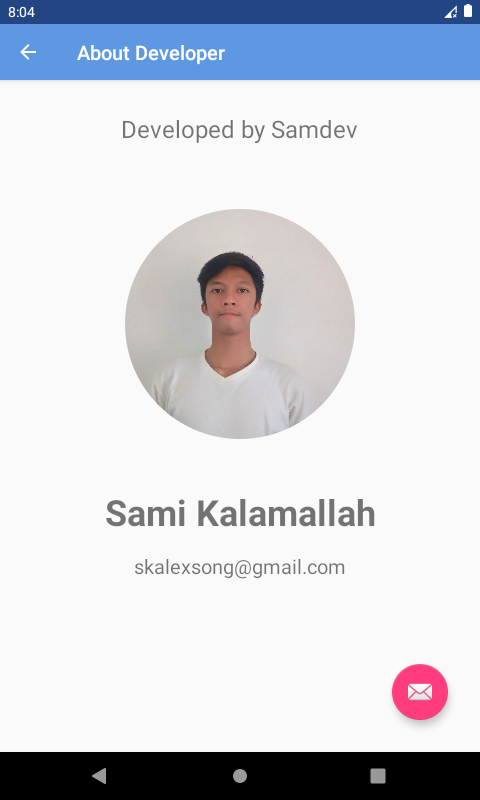
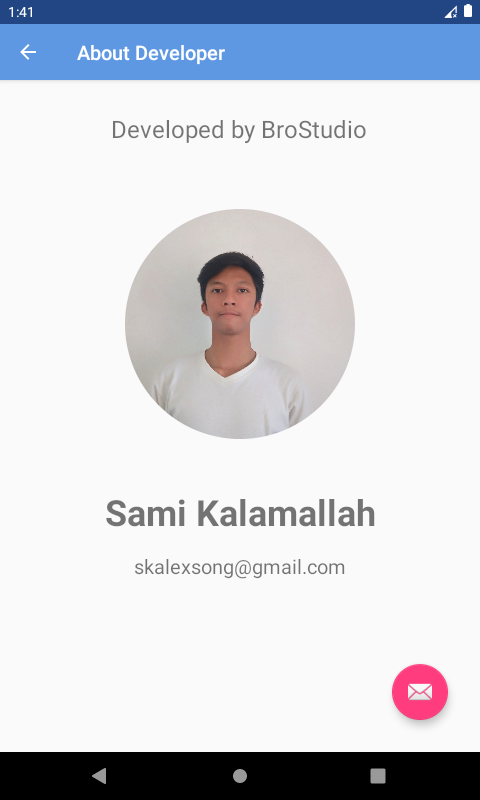
Update Screenshot and Reference

Changed region(s): [[0.2188, 0.125, 0.7812, 0.1875], [0.0, 0.0, 0.0938, 0.0312]]

diff --git a/README.md b/README.md
@@ -5,13 +5,14 @@ My first android app using JAVA on Android Studio
 Android application to show the vacation list on Cianjur city in West Java of Indonesia. This app keeps updating...
 
 # Screenshot
-![Screenshot01](screenshot/1.png?raw=true "Optional Title")
-![Screenshot01](screenshot/2.png?raw=true "Optional Title")
-![Screenshot01](screenshot/3.png?raw=true "Optional Title")
-![Screenshot01](screenshot/4.png?raw=true "Optional Title")
-![Screenshot01](screenshot/5.png?raw=true "Optional Title")
+![Screenshot01](screenshot/1.png?raw=true "SplashScreen")
+![Screenshot01](screenshot/2.png?raw=true "Main Activity")
+![Screenshot01](screenshot/3.png?raw=true "Content")
+![Screenshot01](screenshot/4.png?raw=true "Main Menu")
+![Screenshot01](screenshot/5.png?raw=true "About Developer")
 
 # Feature
+- SplashScreen activity
 - Recycler list of Place
 - Detailed page each click on Recycler List
 - About me page
@@ -19,5 +20,5 @@ Android application to show the vacation list on Cianjur city in West Java of In
 - Exit button option menu
 
 # Developer
-Developed by Sami Kalammallah to fullfill the requirements of "Belajar Android Pemula" by Dicoding Academy.
-https://www.dicoding.com/academies/51/
+- Developed by Sami Kalammallah to fullfill the requirements of "Belajar Android Pemula" by Dicoding Academy. https://www.dicoding.com/academies/51/
+- SplashScreen by Radhit Rabbani IG @faithfuldre4mer
